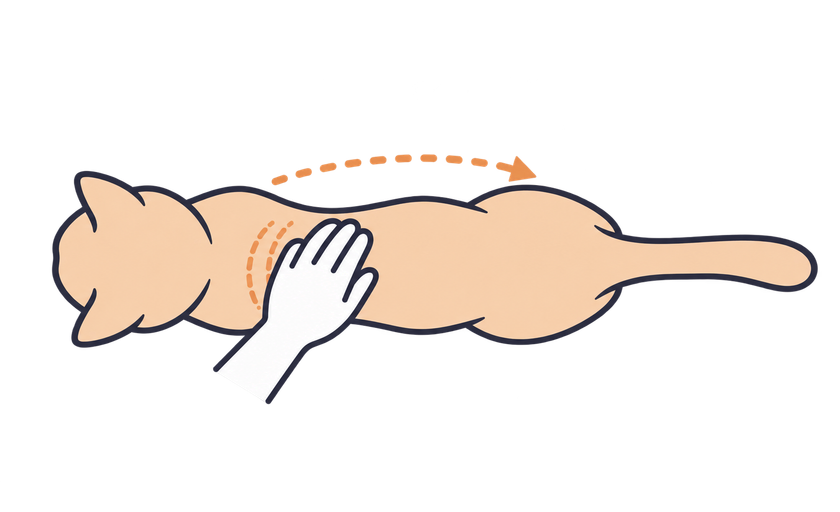
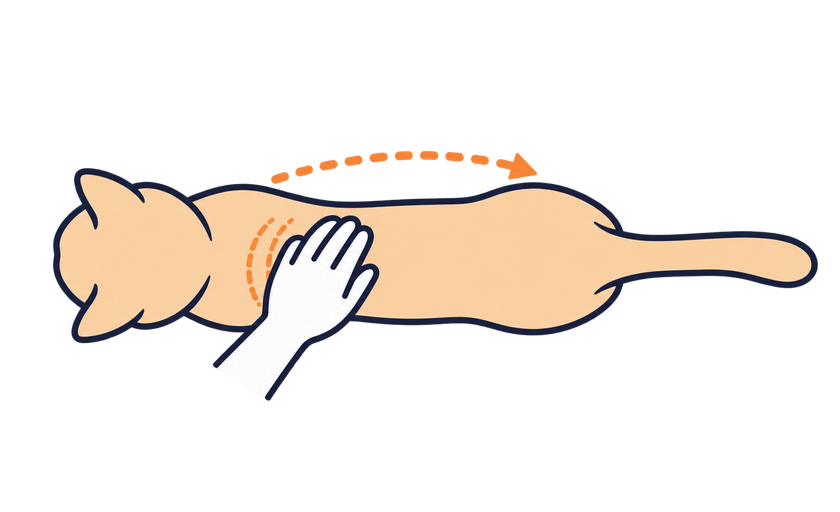
参考画像に合わせて BCS の腰のくびれを調整する

Changed region(s): [[0.0619, 0.3125, 0.9905, 0.7812], [0.3405, 0.2812, 0.7119, 0.4062]]

diff --git a/docs/illustrations/bcs.md b/docs/illustrations/bcs.md
@@ -6,6 +6,8 @@
 
 内蔵の `image_gen` で BCS 3 を最初に生成し、残りの画像はその画像を参照して画風と構図を揃えた。
 上から見るガイドは、点線の楕円が腰のくびれを囲むように追加で修正した。
+BCS 3 の上面図は、[参考画像の BCS 3](https://storage.googleapis.com/studio-cms-assets/projects/YPqr2D8mq5/s-1350x896_v-fms_webp_66989497-388d-4bf6-b3f2-d93252d0c611.webp) に合わせ、胸からお尻までなだらかにつながる浅いくびれに調整した。
+同じ体型を使う肋骨・上面のガイドも揃え、BCS 4 の上面図は BCS 3 より胴体がふっくら見えるよう調整した。
 生成後は透過を維持し、縦横比を保ったまま表のサイズに整えた。
 実際に使用したプロンプトと追加の修正指示は [bcs-prompts.json](bcs-prompts.json) に記録している。
 
@@ -55,6 +57,7 @@
 【構図】840 × 840 px の正方形。上半分に「真上から見た猫」、下半分に「真横から見た立ち姿の猫」を 1 匹ずつ描く。
 - どちらも頭を左、しっぽを右に向ける。
 - 上から見た図は、胸・腰のくびれ・お尻の幅の違いが分かるように、体の輪郭をはっきり描く。
+- BCS 3 の上面図は、胸からお尻までなだらかにつなぎ、腰のくびれを浅くする。胸・腰・お尻が別々に膨らむ輪郭や、痩せた砂時計型にしない。肋骨・上面のガイドにも同じ体型を使う。
 - 横から見た図は、4 本足で立った姿勢。胸からお腹、後ろ足の付け根にかけてのお腹のライン（吊り上がり）が分かるように描く。
 - 5 段階の画像を横に並べたとき、体型以外（頭の大きさ・足の長さ・位置）が一致するようにする。
 
